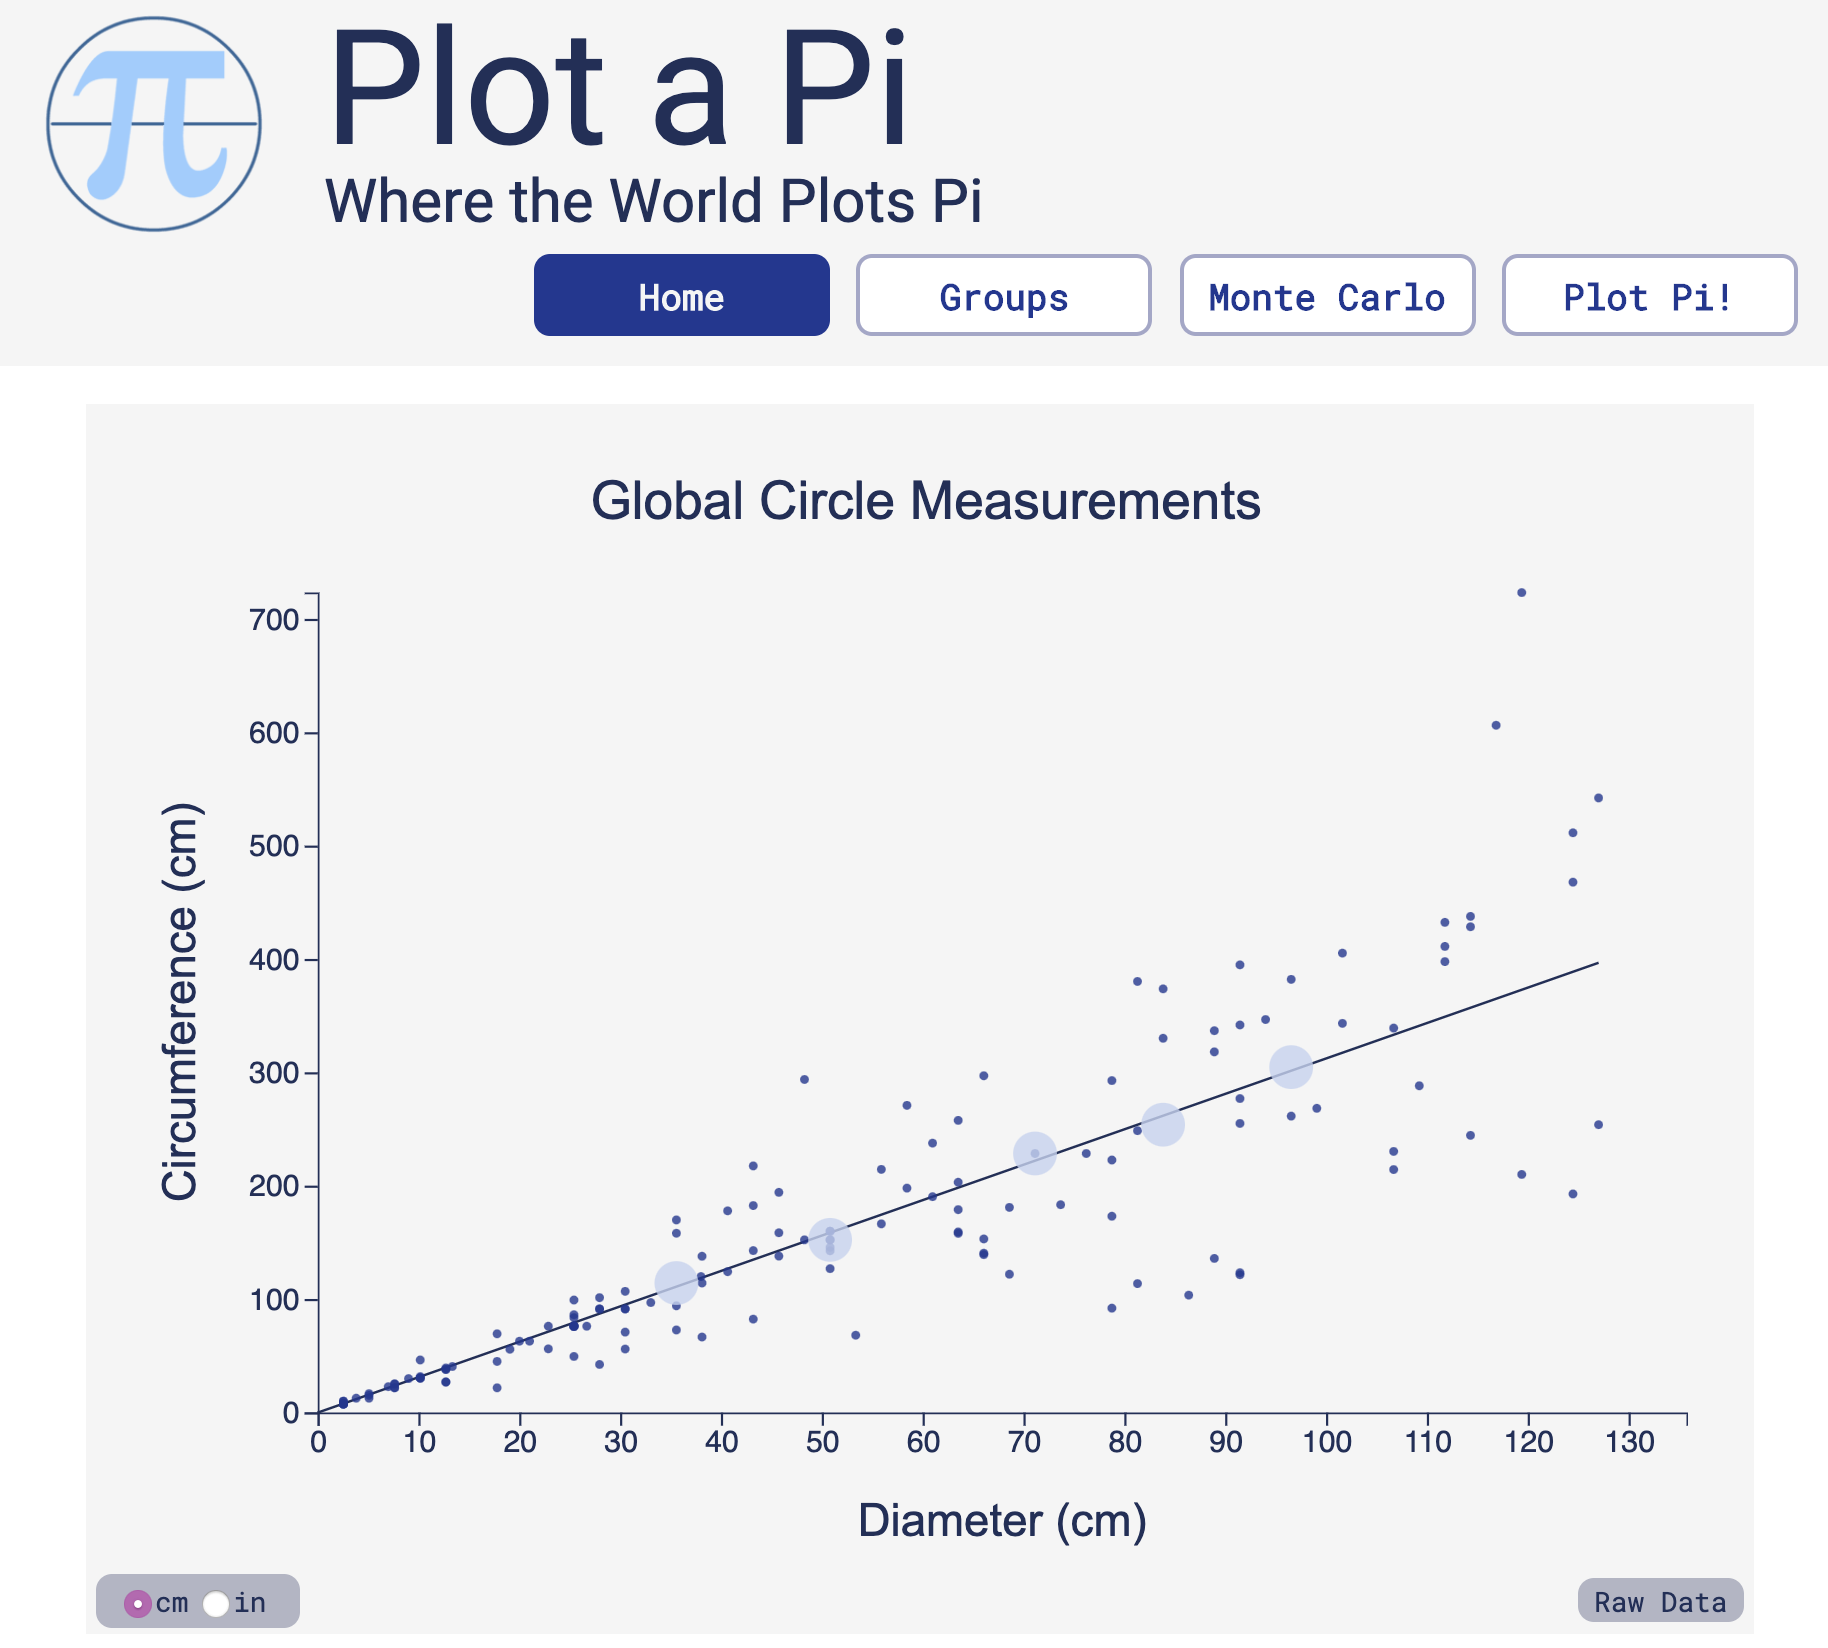
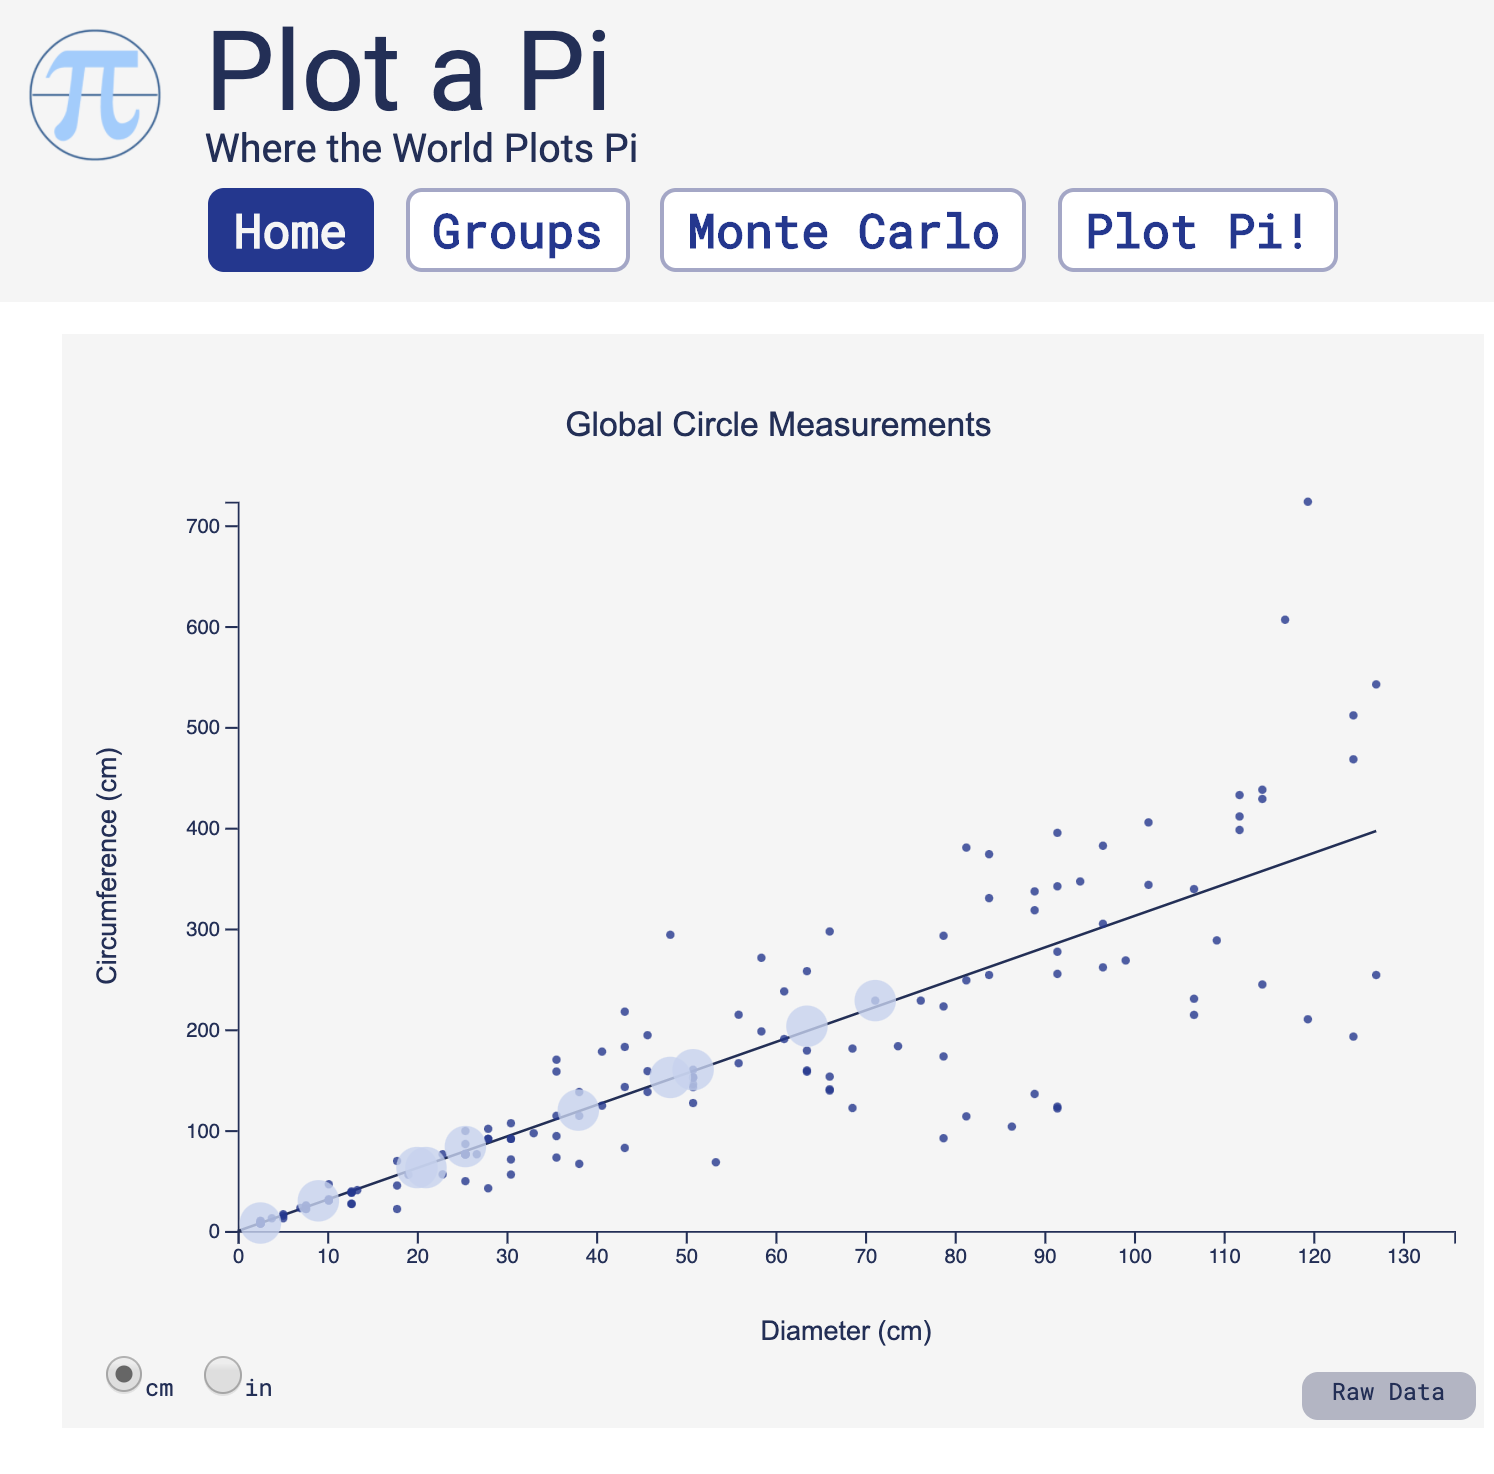
style Connect

diff --git a/src/data/portfolio.js b/src/data/portfolio.js
@@ -1,6 +1,8 @@
 import piMain from '../assets/pi/pi_main.png';
 import treksSearch from '../assets/treks/treks_search.png';
 import minesweeperGame from '../assets/minesweeper/minesweeper_game.png';
+import postmanMain from '../assets/postman/postman_main.png';
+import plantsMain from '../assets/plants/plants_main.png';
 
 export const portfolioPieces = [
   { 
@@ -18,20 +20,20 @@ export const portfolioPieces = [
     github: 'https://github.com/Plant-Parenthood/treks-n-tents',
     site: 'https://treksntrails.herokuapp.com/index.html?redirect=%2F'
   },
-  { title: 'Minesweeper No. 2',
-    image:minesweeperGame,
-    technology: 'Vanilla Javascript, HTML5/CSS3',
-    description: 'A recursion of the classic 90\'s computer game. Built by a 5- person team in a 4-day sprint.',
-    github: 'https://github.com/ACL-minesweeper/mindsweepers',
-    site: 'https://acl-minesweeper.github.io/mindsweepers/'
-  },
   { 
-    title: 'Minesweeper No. 2',
-    image:minesweeperGame,
-    technology: 'Vanilla Javascript, HTML5/CSS3',
-    description: 'A recursion of the classic 90\'s computer game. Built by a 5- person team in a 4-day sprint.',
-    github: 'https://github.com/ACL-minesweeper/mindsweepers',
-    site: 'https://acl-minesweeper.github.io/mindsweepers/'
+    title: 'Plant Parenthood',
+    image:plantsMain,
+    technology: 'Python, NodeJS, MongoDB, JS, Raspbian',
+    description: 'A secure, server-side app for remote gathering of sensor data from an IoT device, build by a 5-person team in a 4-day sprint.',
+    github: 'https://github.com/piParty/pi-party',
+    site: null
+  },
+  { title: 'Postman',
+    image:postmanMain,
+    technology: 'ReactJS',
+    description: 'A server-side client application for visualizing responses to requests',
+    github: 'https://github.com/licarpen/postman',
+    site: null
   },
   { 
     title: 'Minesweeper No. 2',

diff --git a/src/components/connect/Connect.js b/src/components/connect/Connect.js
@@ -1,10 +1,14 @@
 import React from 'react';
+import styles from './Connect.css';
+import github from '../../assets/connect/github.svg';
+import linkedin from '../../assets/connect/linkedin.svg';
+import email from '../../assets/connect/email.svg';
 
 const Connect = () => (
-  <div>
-    <a href='https://github.com/licarpen' target='_blank' rel='noopener noreferrer'>GitHub</a>
-    <a href='https://www.linkedin.com/in/lisacarpenter256/' target='_blank' rel='noopener noreferrer'>LinkedIn</a>
-    <a href='mailto:carpenter.lisa@gmail.com' target='_blank' rel='noopener noreferrer'>carpenter.lisa@gmail.com</a>
+  <div className={styles.Connect}>
+    <a href='https://github.com/licarpen' target='_blank' rel='noopener noreferrer' ><img src={github}></img>GitHub</a>
+    <a href='https://www.linkedin.com/in/lisacarpenter256/' target='_blank' rel='noopener noreferrer'><img src={linkedin}></img>LinkedIn</a>
+    <a className={styles.email} href='mailto:carpenter.lisa@gmail.com' target='_blank' rel='noopener noreferrer'><img src={email}></img>carpenter.lisa@gmail.com</a>
   </div>
 );
 

diff --git a/src/components/header/Header.css b/src/components/header/Header.css
@@ -1,16 +1,12 @@
 .Header{
-  background: darkcyan;
-  border: solid 1px darkcyan;
-
   h1{
-    margin: 20px;
+    margin: 10px;
     font-size: 5vw;
     color: white;
-    font-weight: bold;
   }
 
   h2{
-    margin-bottom: 10px;
+    margin-bottom: 5px;
     font-size: 3.5vw;
     color: white;
   }
@@ -18,7 +14,6 @@
   @media screen and (max-width: 600px){
     h1{
       font-size: 24px;
-      margin: 10px;
     }
     h2{
       font-size: 18px;

diff --git a/src/components/connect/Connect.css b/src/components/connect/Connect.css
@@ -1,0 +1,24 @@
+.Connect{
+  margin: auto;
+  margin-top: 5vw;
+  display: flex;
+  flex-direction: column;
+  align-items: flex-start;
+  width: 30%;
+
+  a{
+    font-size: 3vw;
+    font-family: Arial, Helvetica, sans-serif;
+    margin: 20px;
+    color: black;
+  }
+
+  img{
+    width: 8vw;
+    margin-right: 20px;
+  }
+
+  .email{
+    font-size: 1.5vw;
+  }
+}
